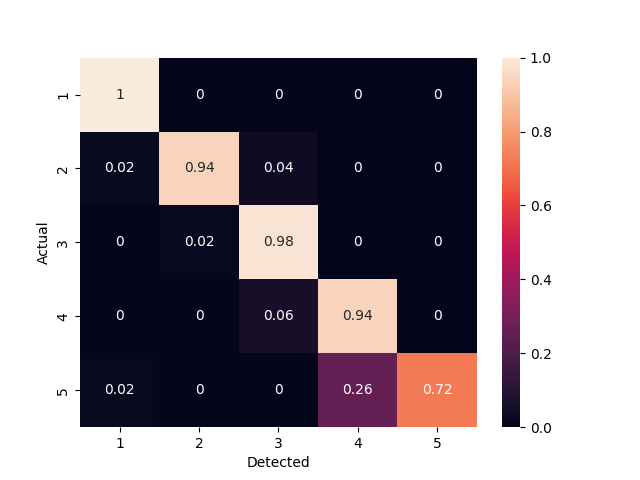
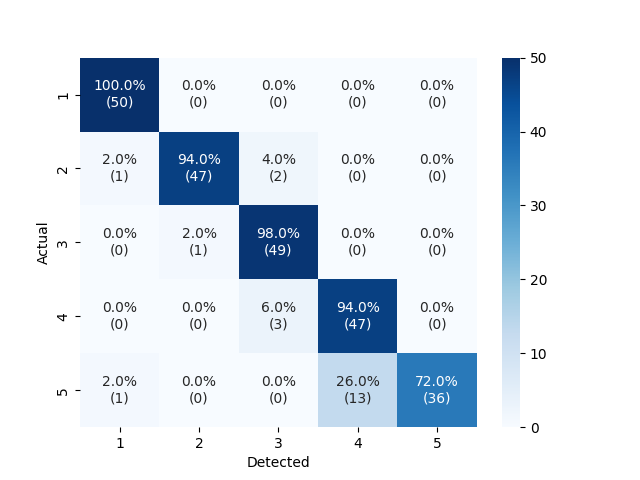
fixed confusion matrix

diff --git a/confusion_matrix.py b/confusion_matrix.py
@@ -555,10 +555,26 @@ def main():
     detected = results[1] + results[2] + results[3] + results[4] + results[5]
     print(detected)
 
-    cm = confusion_matrix(actual, detected, normalize='true')
-    sns.heatmap(cm, annot=True)
+    cm = confusion_matrix(actual, detected)
+    total_per_class = np.sum(cm, axis=1)
+    percentages = np.around((cm.astype('float') / total_per_class[:, np.newaxis]) * 100, decimals=1)
+
+    # Create labels for the heatmap
+    labels = []
+    for i in range(5):
+        for j in range(5):
+            labels.append(f'{percentages[i][j]}%\n({cm[i][j]})')
+
+    # Reshape the labels to match the shape of the confusion matrix for plotting
+    labels = np.array(labels).reshape(5, 5)
+
+    # Plot the heatmap
+    sns.heatmap(cm, annot=labels, fmt='', cmap='Blues')
+
+    # Set the x and y axis labels to range from 1 to 5
     plt.xticks(np.arange(5) + 0.5, labels=np.arange(1, 6))
     plt.yticks(np.arange(5) + 0.5, labels=np.arange(1, 6))
+
     plt.xlabel('Detected')
     plt.ylabel('Actual')
     plt.show()
